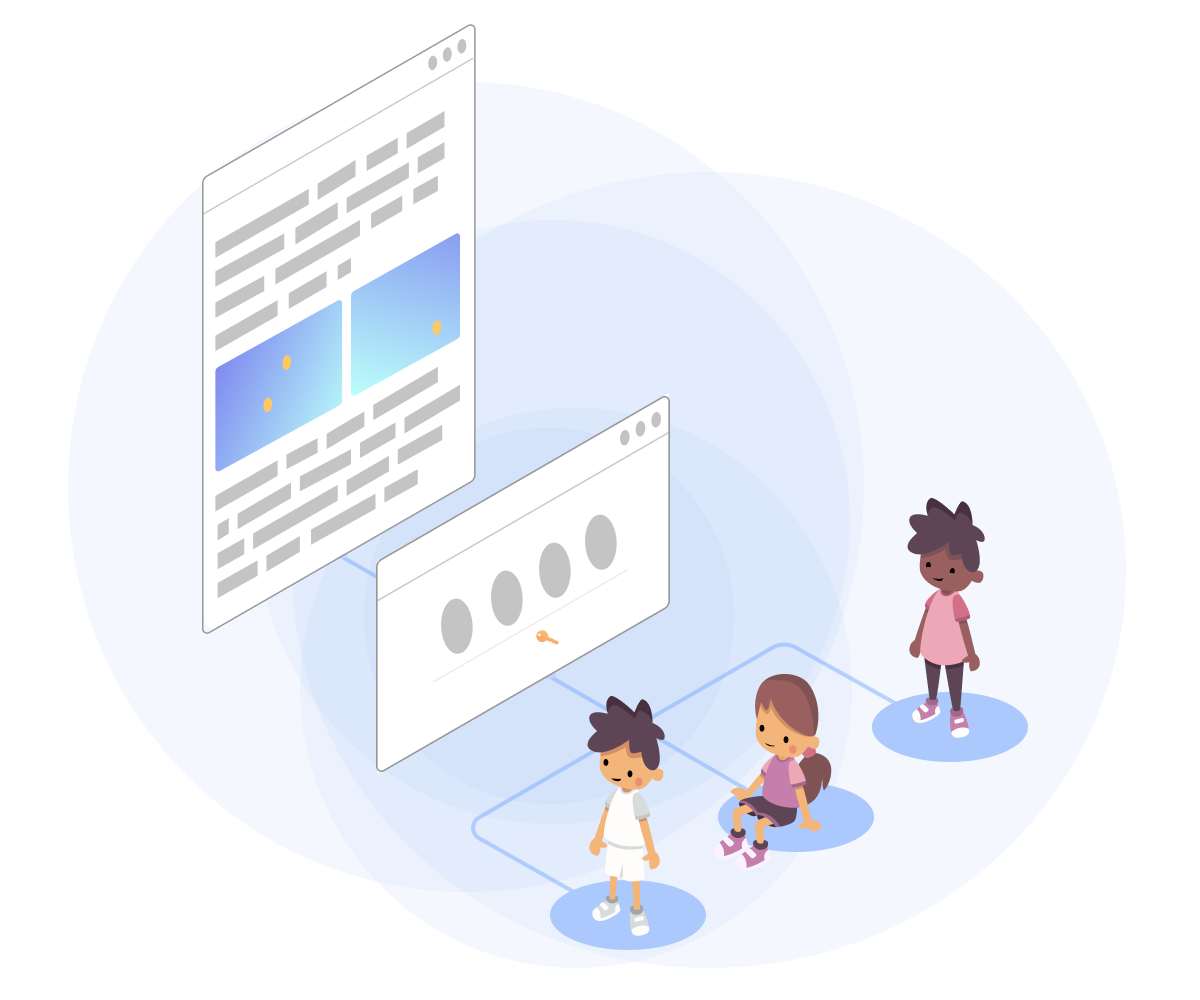
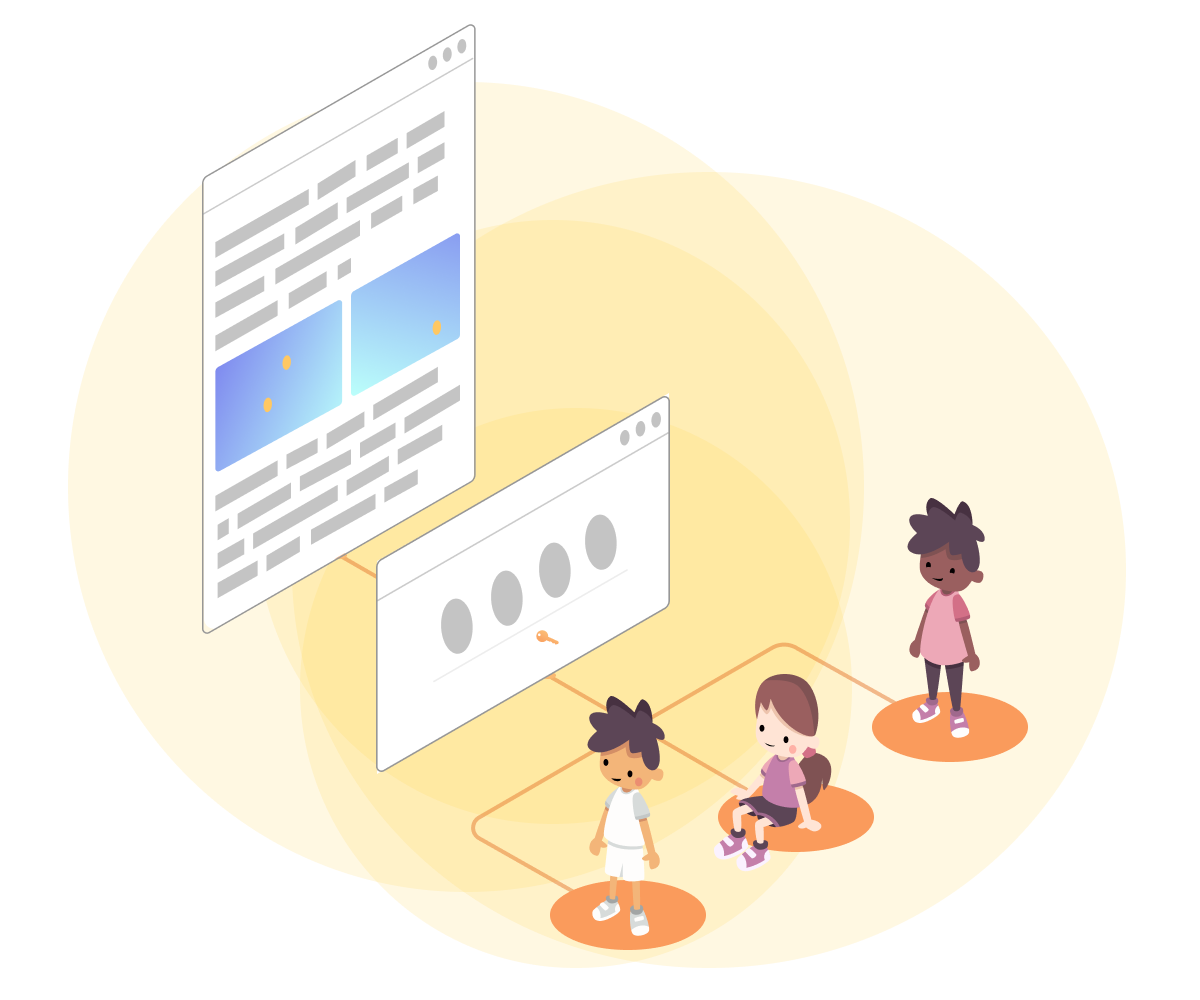
Home page: Tweaking promo images

diff --git a/src/app/home/home.component.scss b/src/app/home/home.component.scss
@@ -118,11 +118,12 @@ $navy: #072649;
 }
 
 .value-prop-row {
-    padding-top: 2em;
-    padding-bottom: 2em;
+    @extend .promo-row;
+    padding-bottom: 0px;
 
     & h2 {
         line-height: 1.25em;
+        margin-bottom: 1em;
     }
 
     & img {
@@ -130,6 +131,11 @@ $navy: #072649;
         padding-top: 0.5em;
         padding-bottom: 0.5em;
         min-width: calc(100% + #{2*$base-pad});
+    }
+
+    & p {
+        color: $dark-gray;
+        padding-left: 2em;
     }
     
 }
@@ -260,20 +266,24 @@ li.promo-list {
     position: relative;
 
     & .icon-play {
-        transition: transform;
-        height: 2em;
-        width: 2em;
+        transition: transform ease 200ms;
+        height: 5em;
+        width: 5em;
         position: absolute;
         top: 50%;
         left: 50%;
         transform: translate3d(-50%, -50%, 0);
+
+        background-size: 50% 50%;
+        border-radius: 50%;
+        background-color: rgba(0,0,0,0.25);
     }
 
     &:hover, &:focus, &:active {
         box-shadow: 0 0px 15px 0px rgba($btnPrimaryFocusColor,0.5);
 
         & .icon-play {
-            transform: scale(1.05) translate3d(-50%, -50%, 0);
+            transform: scale(1.1) translate3d(-48%, -48%, 0);
         }
     }
 
